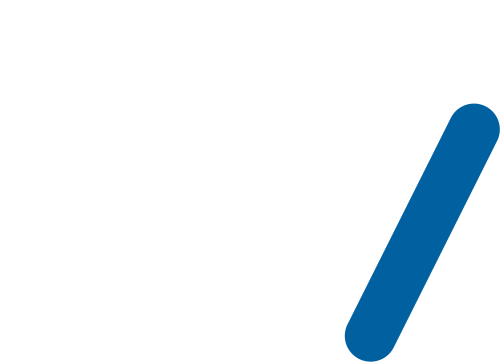
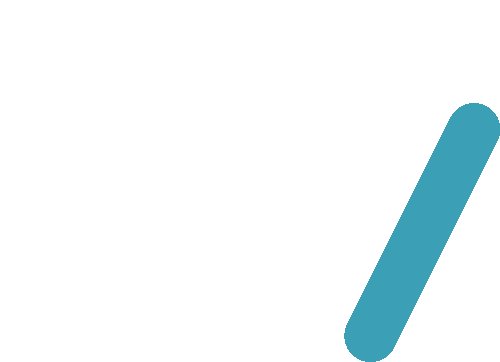
f

Changed region(s): [[0.69, 0.2735, 1.0, 1.0]]

diff --git a/index.html b/index.html
@@ -136,7 +136,7 @@
   </header>
   
   
-  <section class="grid5 fg-lighter" style="padding: 6rem 0 4vw 0; align-items: center;">
+  <section class="grid5 fg-lighter" style="padding: 6rem 0 10vw 0; align-items: center;">
     <div class="col1 large-only"></div>
     <div class="col3 a-center">
       <img id="coverlogo" src="/assets/icon.png" style="width: 5cm; max-width: 35vw;">
@@ -158,7 +158,7 @@
     <div class="col1 large-only"></div>
   </section>
   
-  <section class="grid11 bg-dark" style="padding: 2rem 0; align-items:center;">
+  <section class="grid11 bg-darker" style="padding: 2rem 0; align-items:center;">
     <div class="col1 large-only"></div>
     <div class="col4 a-left">
       <h2 style="line-height: 150%;">

diff --git a/css/roadrunner.css b/css/roadrunner.css
@@ -2,11 +2,11 @@
 
 /* Color Scheme */
 :root{
-  --darker: #030708;
-  --dark: #040b0b;
-  --theme: #0060a0;
-  --accent: #00cc7a;
-  --light: #ebf7ff;
+  --darker: #161e24;
+  --dark: #2e4b57;
+  --theme: #3ba0b6;
+  --accent: #3d768c;
+  --light: #7fb9c8;
   --lighter: #ffffff;
 }
 
@@ -111,7 +111,7 @@ div.home-bg{
   margin: 0;
 }
 div.home-bg-image{
-  background: url(/assets/home_bg.webp);
+  background: url(/assets/u19.png);
   background-size: cover;
   background-position: center center;
   min-width: 100vw;
